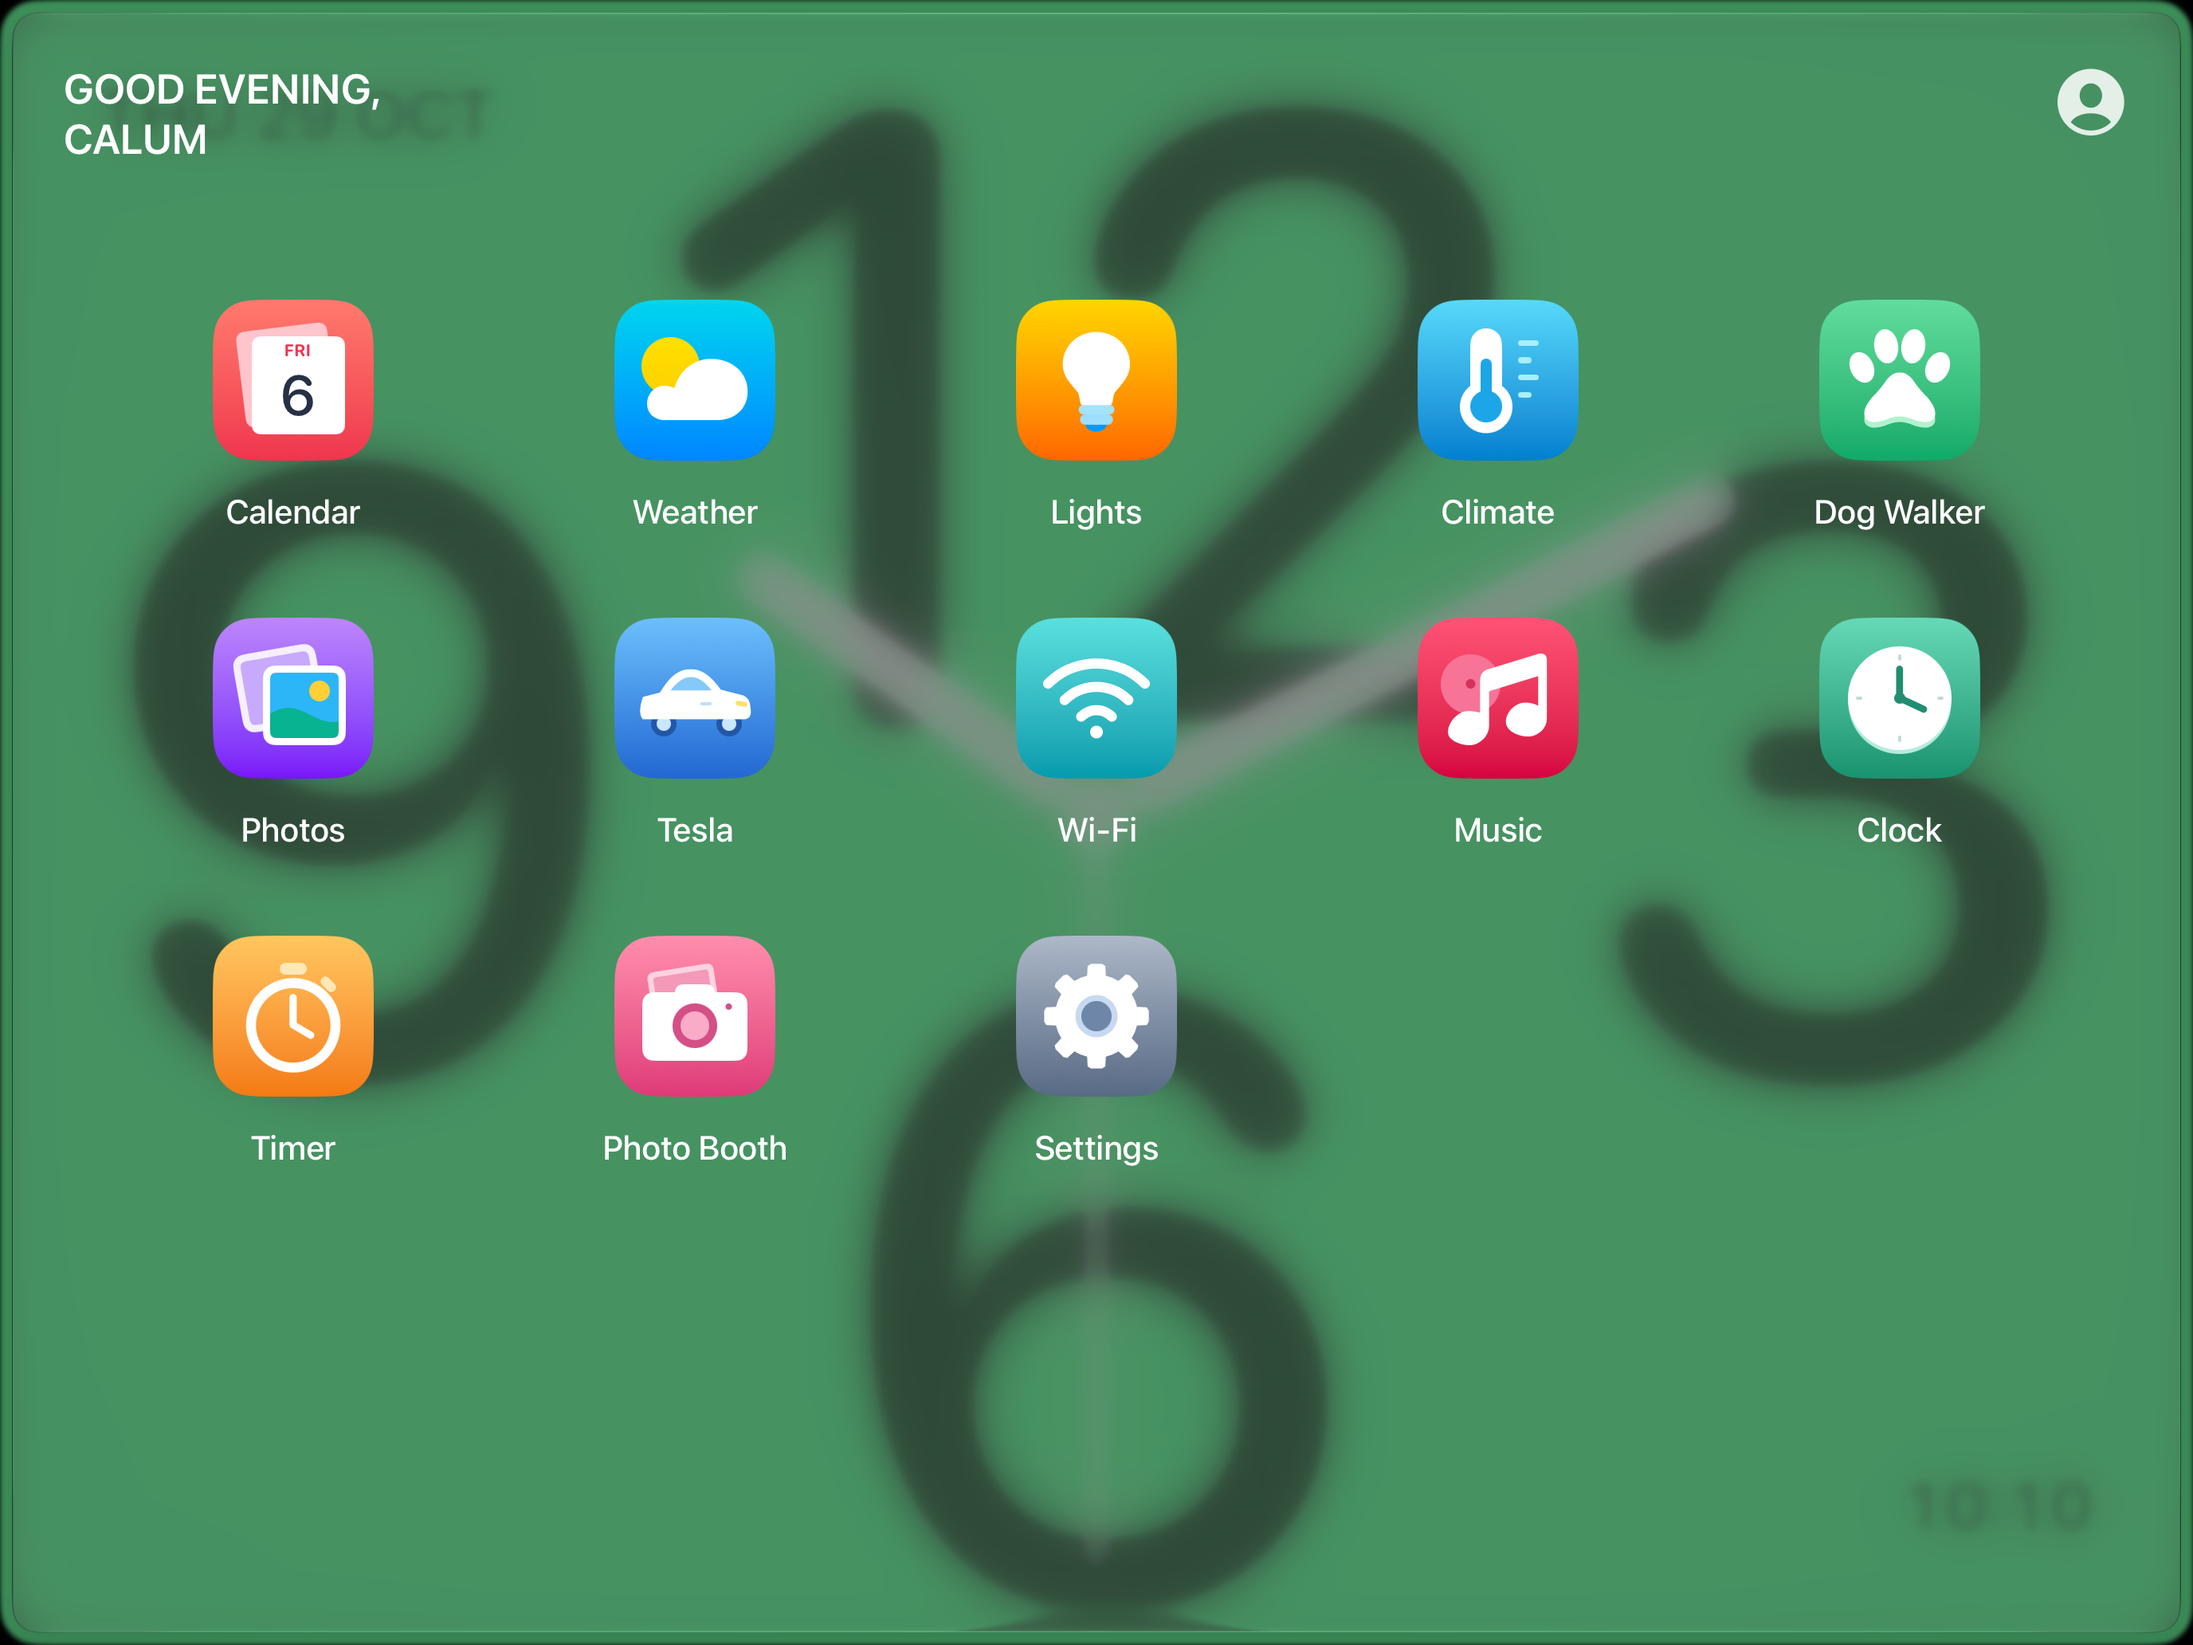
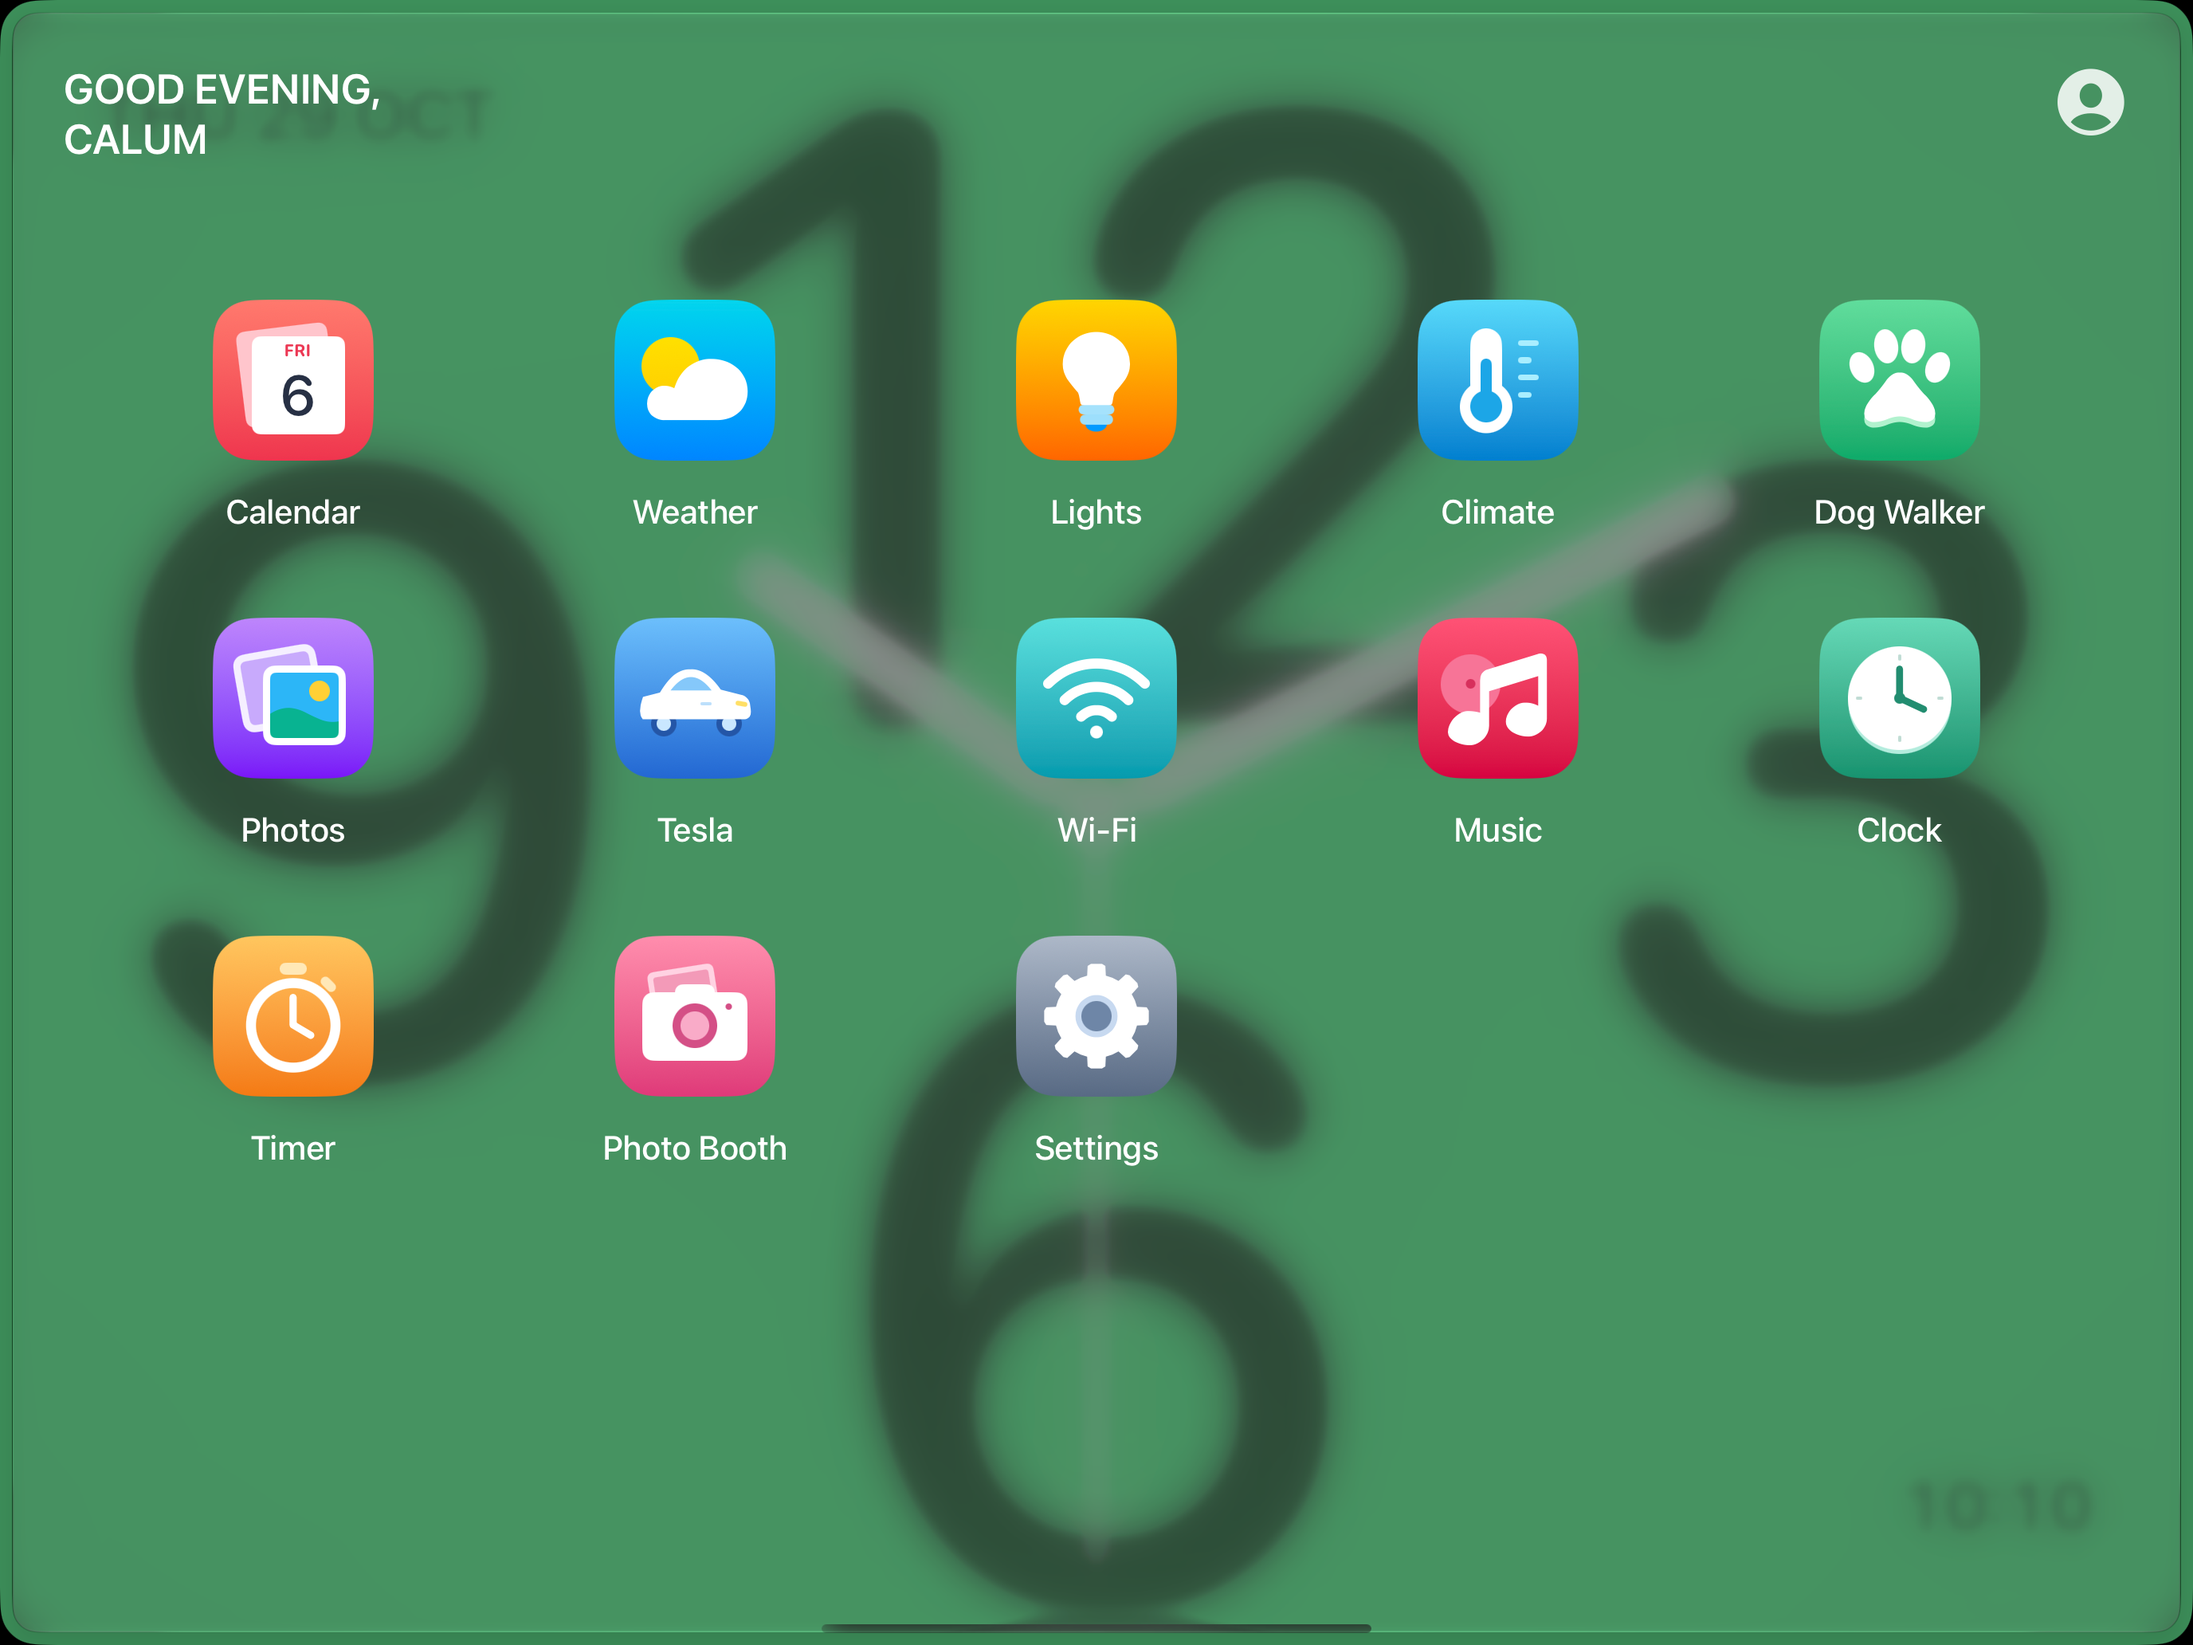
fix(panel): confine launcher blur to glass footprint

Changed region(s): [[0.0, 0.9612, 1.0, 1.0]]

diff --git a/apps/apple-prototype/Sources/Apps/AppLauncher.swift b/apps/apple-prototype/Sources/Apps/AppLauncher.swift
@@ -81,12 +81,16 @@ struct AppLauncher: View {
 /// Native Liquid Glass above the clock.
 /// The inset and concentric corners leave a slim, uninterrupted rim of the dial.
 struct LauncherGlassSurface: View {
-    private let edgeInset: CGFloat = 8
+    static let edgeInset: CGFloat = 8
+    static var footprint: some View {
+        RoundedRectangle(cornerRadius: PanelSurface.cornerRadius - edgeInset)
+            .padding(edgeInset)
+    }
     var body: some View {
-        let shape = RoundedRectangle(cornerRadius: PanelSurface.cornerRadius - edgeInset)
+        let shape = RoundedRectangle(cornerRadius: PanelSurface.cornerRadius - Self.edgeInset)
         Color.clear.glassEffect(preview == "regular" ? .regular.tint(.white.opacity(0.08)) : .clear, in: shape)
             .background(.black.opacity(preview == "clearDim" ? 0.22 : 0), in: shape)
-            .padding(edgeInset)
+            .padding(Self.edgeInset)
     }
 
     private var preview: String {

diff --git a/apps/apple-prototype/Sources/HomeView.swift b/apps/apple-prototype/Sources/HomeView.swift
@@ -199,7 +199,14 @@ struct HomeView: View {
                 Color.black.ignoresSafeArea()
                 ZStack {
                     clockSurface(width: proxy.size.width)
-                        .blur(radius: showingClock ? 0 : 1.5)
+                    if !showingClock {
+                        // Only the clock beneath the glass gets the extra blur.
+                        clockSurface(width: proxy.size.width)
+                            .blur(radius: 1.5)
+                            .mask { LauncherGlassSurface.footprint }
+                            .allowsHitTesting(false)
+                            .accessibilityHidden(true)
+                    }
                     if showingClock {
                         // A tap recognizer cancels on movement; a full-screen Button
                         // can activate after a drag that ends inside its large bounds.
